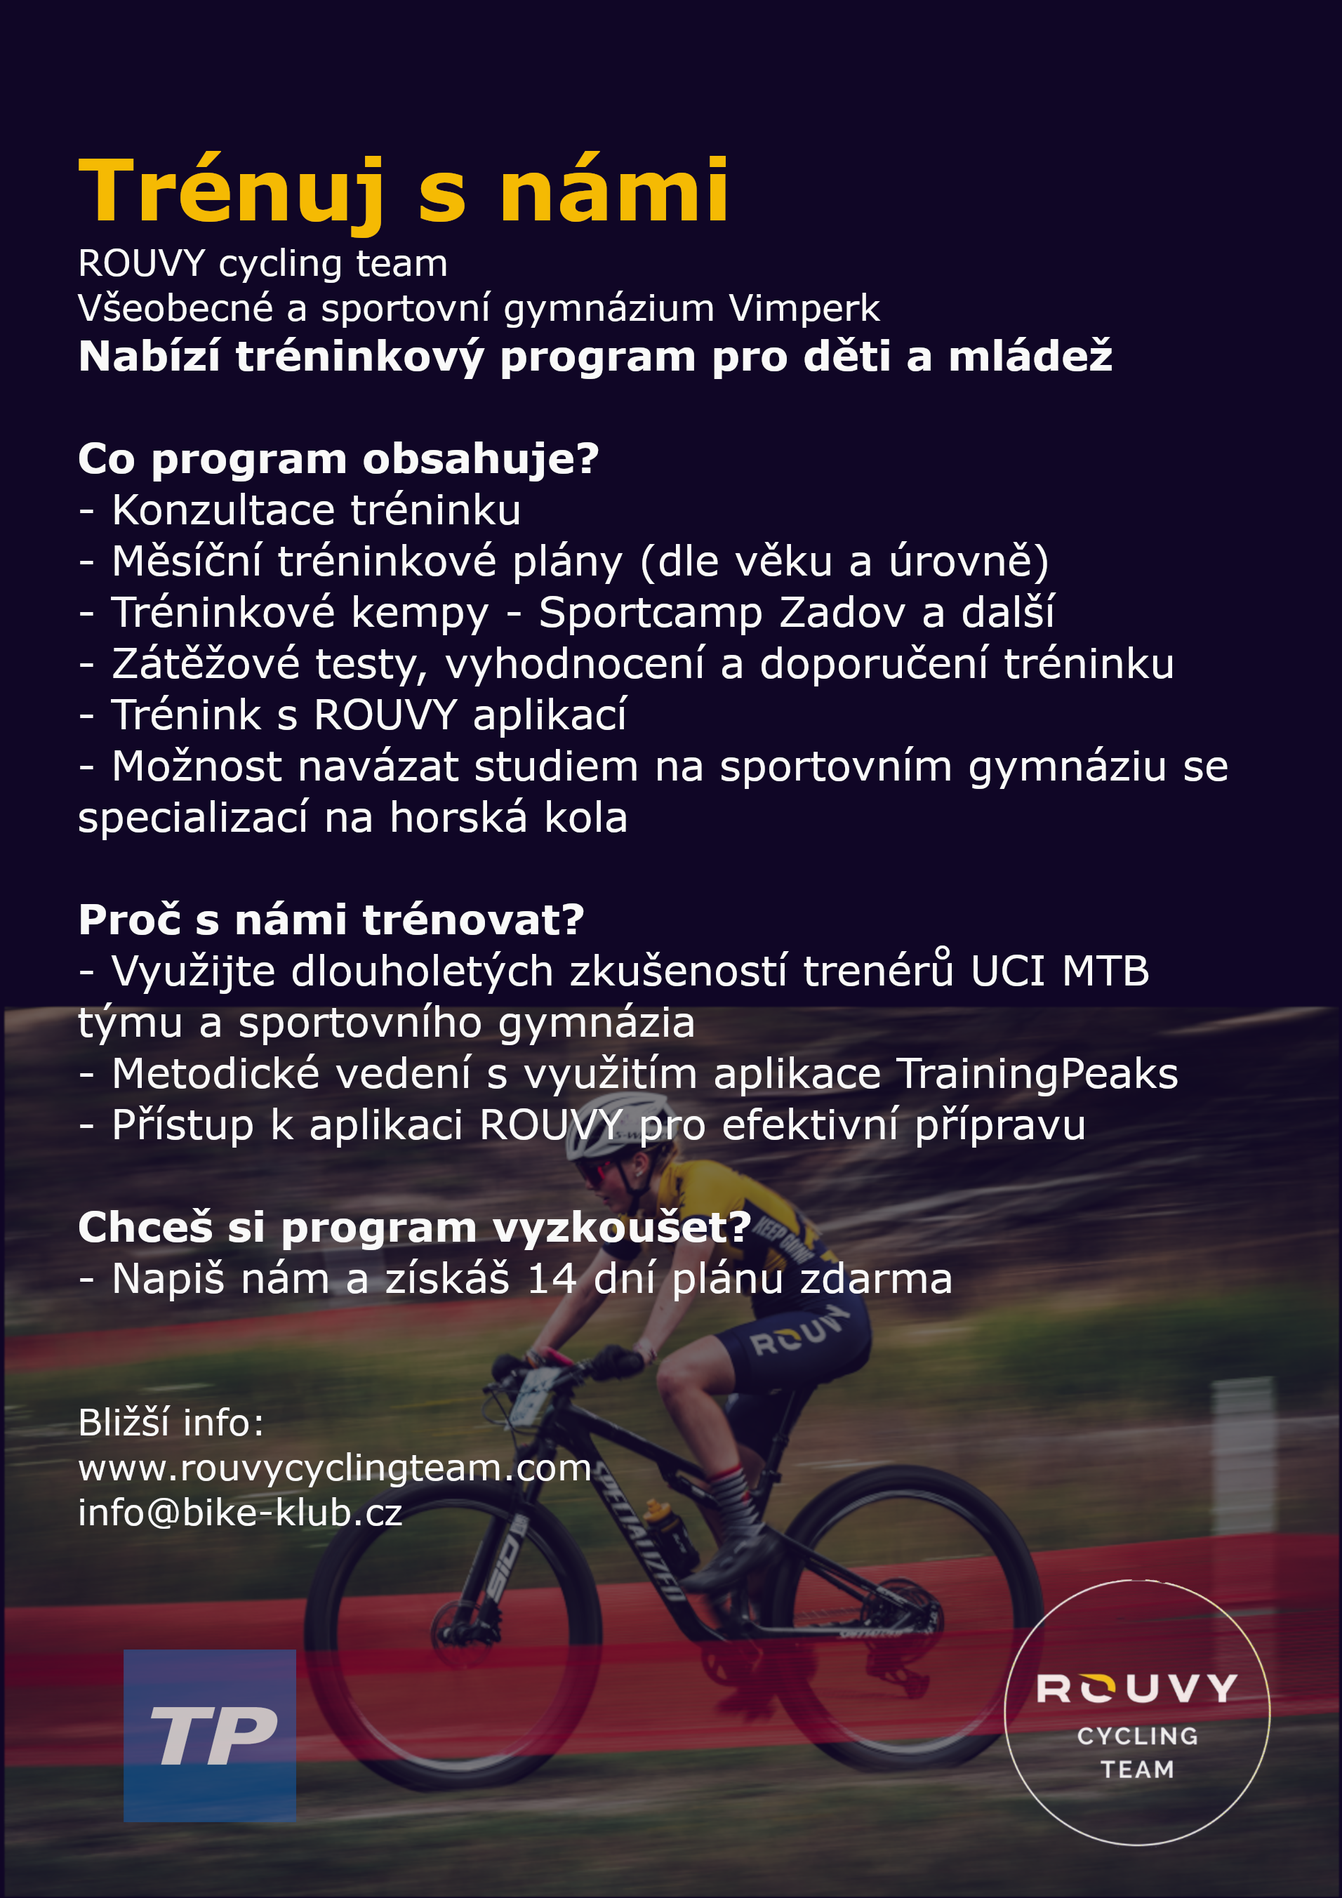
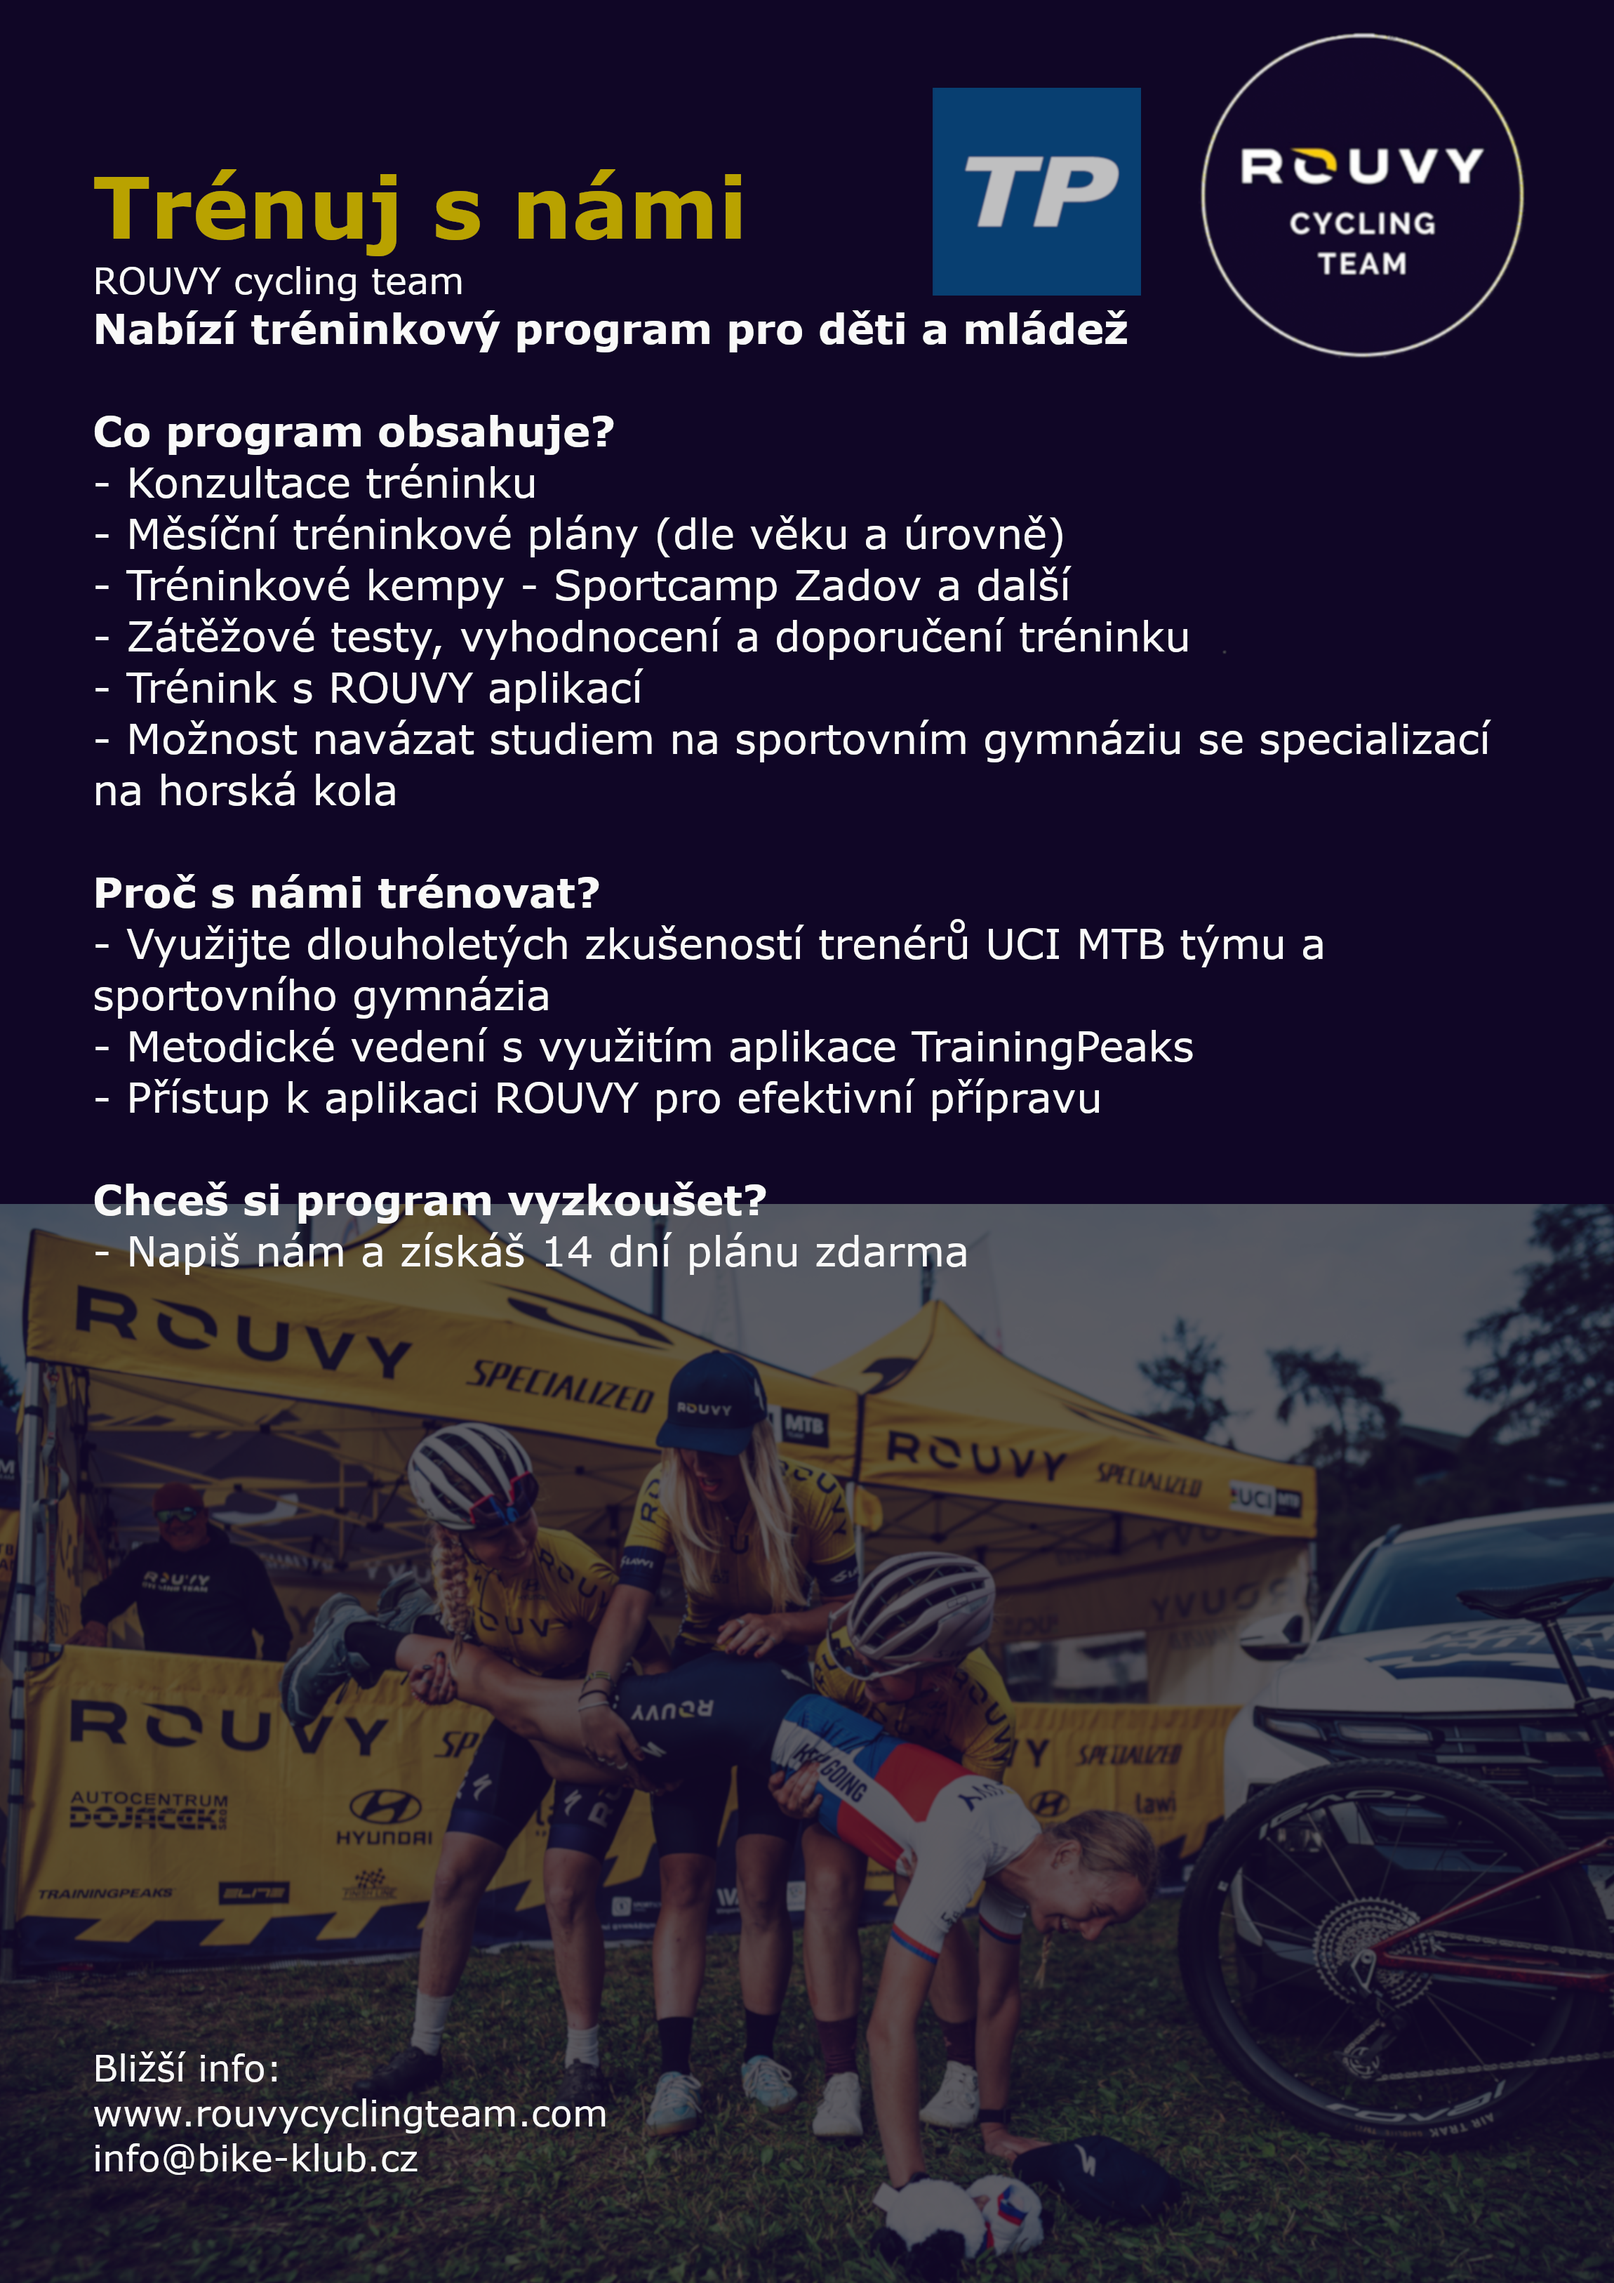
Refreshed trenuj s nami section

diff --git a/_includes/homepage-content.html b/_includes/homepage-content.html
@@ -20,8 +20,8 @@
             <div class="carousel-item active">
                 <img src="/img/rouvy-promo-v1.jpg" class="d-block w-100" alt="MČR XCO Bedřichov">
                 <div class="carousel-caption d-none d-md-block rounded">
-                    <h6>MČR XCO</h6>
-                    <h4>Bedřichov</h4>
+                    <h6>World Cup XCO</h6>
+                    <h4>ARAXA</h4>
                 </div>
             </div>
             <div class="carousel-item">
@@ -34,43 +34,43 @@
             <div class="carousel-item">
                 <img src="/img/rouvy-promo-v3.jpg" class="d-block w-100" alt="MČR XCO Bedřichov">
                 <div class="carousel-caption d-none d-md-block rounded">
-                    <h6>MČR XCO</h6>
-                    <h4>Bedřichov</h4>
+                    <h6>World Cup XCO</h6>
+                    <h4>ARAXA</h4>
                 </div>
             </div>
             <div class="carousel-item">
                 <img src="/img/rouvy-promo-v8.jpg" class="d-block w-100" alt="Worl Championchip">
                 <div class="carousel-caption d-none d-md-block rounded">
-                    <h6>Worl Championchip</h6>
-                    <h4>Glasgow</h4>
+                    <h6>HC XCO</h6>
+                    <h4>LENZERHEIDE</h4>
                 </div>
             </div>
             <div class="carousel-item">
                 <img src="/img/rouvy-promo-v5.jpg" class="d-block w-100" alt="Elba Capoliveri Legend - XCO HC">
                 <div class="carousel-caption d-none d-md-block rounded">
-                    <h6>XCO HC</h6>
-                    <h4>Elba Capoliveri Legend</h4>
+                    <h6>MČR XCO</h6>
+                    <h4>Bedřichov</h4>
                 </div>
             </div>
             <div class="carousel-item">
                 <img src="/img/rouvy-promo-v6.jpg" class="d-block w-100" alt="Elba Capoliveri Legend - XCO HC">
                 <div class="carousel-caption d-none d-md-block rounded">
-                    <h6>XCO HC</h6>
-                    <h4>Elba Capoliveri Legend</h4>
+                    <h6>World Cup XCO</h6>
+                    <h4>NMNM</h4>
                 </div>
             </div>
             <div class="carousel-item">
                 <img src="/img/rouvy-promo-v7.jpg" class="d-block w-100" alt="Ötzaler MTB Festival Haiming - XCO HC">
                 <div class="carousel-caption d-none d-md-block rounded">
-                    <h6>XCO HC</h6>
-                    <h4>Ötzaler MTB Festival Haimingd</h4>
+                    <h6>World Cup XCO</h6>
+                    <h4>LES GETS</h4>
                 </div>
             </div>
             <div class="carousel-item">
                 <img src="/img/rouvy-promo-v4.jpg" class="d-block w-100" alt="World Cup Mont-Sainte-Anne">
                 <div class="carousel-caption d-none d-md-block rounded">
-                    <h6>World Cup</h6>
-                    <h4>Mont-Sainte-Anne</h4>
+                    <h6>World Cup XCO</h6>
+                    <h4>CRANS MONTANA</h4>
                 </div>
             </div>
             <a class="carousel-control-prev" href="#carousel-example-generic" role="button" data-slide="prev">
@@ -85,7 +85,7 @@
         </div>
         <div class="intro-section">
             <h1 class="intro">
-                ROUVY Specialized <br><small>Cycling Team</small>
+                ROUVY Cycling Team
             </h1>
         </div>
       </div>
@@ -153,7 +153,7 @@
       <div class="col-md-4">
         <div id="fb-root"></div>
         <div class="fb-page" data-href="https://www.facebook.com/rouvyspecialized/" data-tabs="timeline" data-show-posts="true" data-width="500" data-height="500" data-small-header="true" data-adapt-container-width="true" data-hide-cover="false" data-show-facepile="false">
-            <blockquote cite="https://www.facebook.com/rouvyspecialized/" class="fb-xfbml-parse-ignore"><a href="https://www.facebook.com/rouvyspecialized/">ROUVY Specialized Cycling Team</a></blockquote>
+            <blockquote cite="https://www.facebook.com/rouvyspecialized/" class="fb-xfbml-parse-ignore"><a href="https://www.facebook.com/rouvyspecialized/">ROUVY Cycling Team</a></blockquote>
         </div>
         </div>
         <div class="bg-info clearfix"> </div>

diff --git a/trenujsnami.html b/trenujsnami.html
@@ -59,6 +59,7 @@ lang: cs
             <li class="list-group-item"><span class="badge badge-secondary">Tréninkové kempy</span> Sportcampy, kempy zaměřené na techniku a kondici.</li>
             <li class="list-group-item"><span class="badge badge-secondary">Zátěžové testy</span> detailní vyhodnocení a doporučení pro další trénink.</li>
             <li class="list-group-item"><span class="badge badge-secondary">Trénink</span> s <a href="https://rouvy.com">ROUVY aplikací</a> – první měsíc předplatného zdarma</li>
+            <li class="list-group-item"><span class="badge badge-secondary">Studium</span> Možnost navázat studiem na sportovním gymnáziu se specializací na horská kola!</li>
           </ul>
 	</div>
 
@@ -93,7 +94,7 @@ lang: cs
         <h3>Chceš si program vyzkoušet? </h3>
 
         <p>
-            Máte zájem si program vyzkou3et nebo potřebujete více informací?. <strong>Kontakrujte nás!!!</strong>
+            Máte zájem si program vyzkoužet nebo potřebujete více informací?. <strong>Kontakrujte nás a získej 14 dní plánu zdarma!!!</strong>
         </p>
 
       

diff --git a/_includes/footer.html b/_includes/footer.html
@@ -1,7 +1,7 @@
 <footer class="py-2 bg-dark">
     <div class="container">
 
-        <!-- <img class="img-fluid" src="/img/rouvy-logo-footer.png" alt="Rouvy Specialized Cycling Team footer logo"> -->
+        <!-- <img class="img-fluid" src="/img/rouvy-logo-footer.png" alt="Rouvy  Cycling Team footer logo"> -->
 
         <div id="go-rouvy" class="roundedAll">
             <div class="row">
